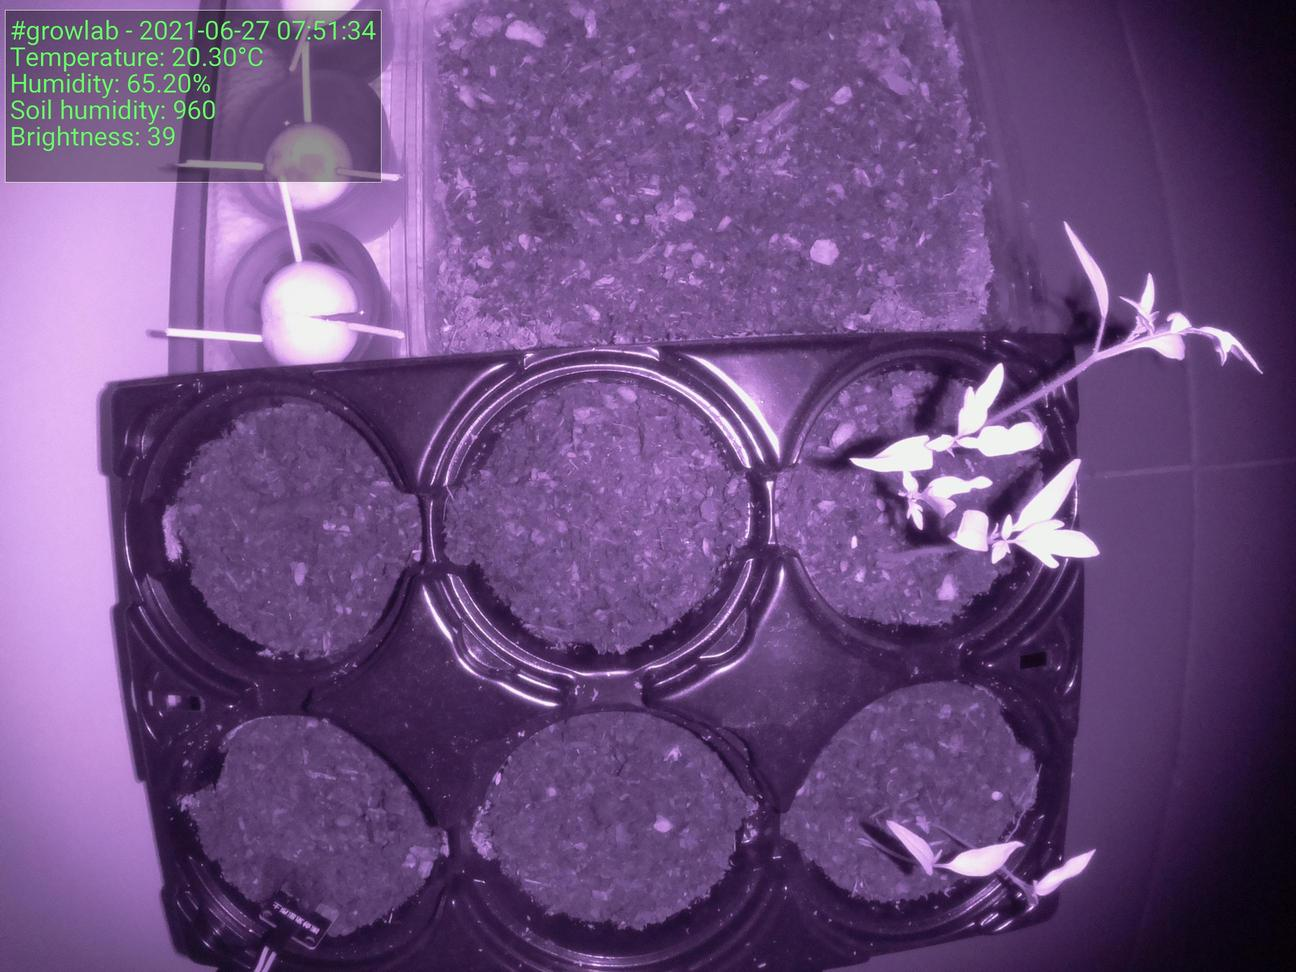
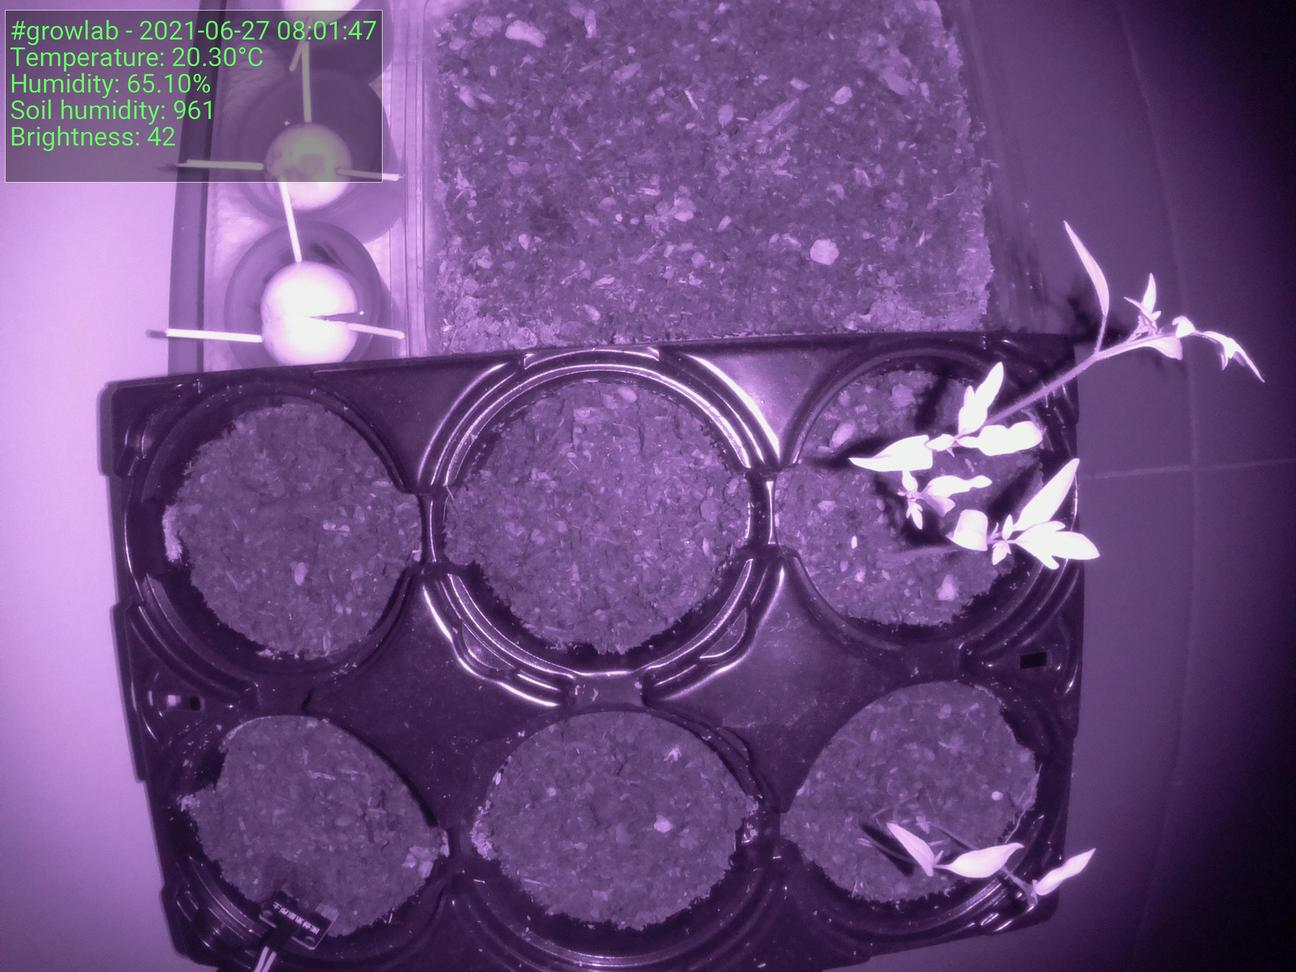
:bento: Update preview

diff --git a/index.html b/index.html
@@ -39,7 +39,7 @@
                     <tbody>
                         <tr>
                             <td>Time</td>
-                            <td>2021-06-27 07:51:34</td>
+                            <td>2021-06-27 08:01:47</td>
                         </tr>
                         <tr>
                             <td>Temperature</td>
@@ -47,7 +47,7 @@
                         </tr>
                         <tr>
                             <td>Humidity</td>
-                            <td>65.20%</td>
+                            <td>65.10%</td>
                         </tr>
                     </tbody>
                 </table>
@@ -55,7 +55,7 @@
 
                 <h5>Latest image</h5>
 		<div style="width: 85%;">
-	                <img class="figure-img img-fluid rounded" src="./preview.jpg?uid=1624773101.6671324">
+	                <img class="figure-img img-fluid rounded" src="./preview.jpg?uid=1624773714.106629">
 		</div>
             </div>
         </div>
